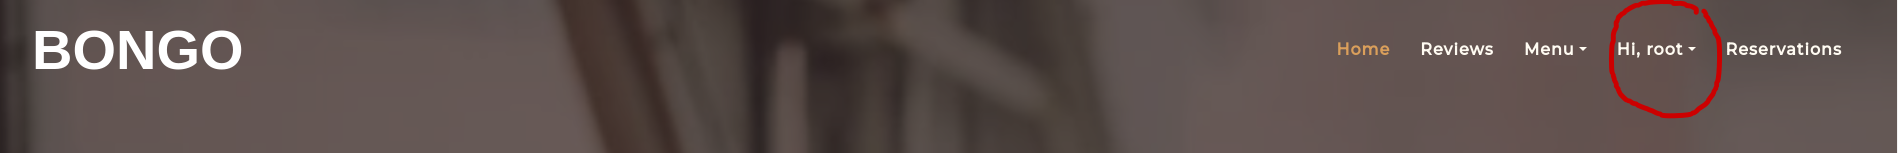
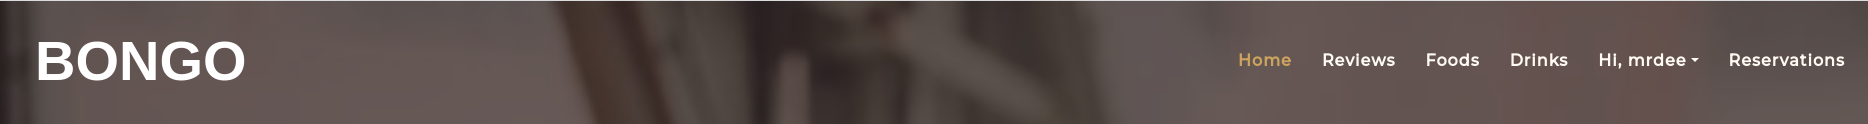
Console error of javascript corrected.

diff --git a/templates/_partials/nav.html b/templates/_partials/nav.html
@@ -17,26 +17,16 @@
                   <a href="{{ url }}" class="nav-item nav-link {% if request.path == url %}active{% endif %}">Home</a>
                   {% url 'restaurant:reviews' as url %}
                   <a href="{{ url }}" class="nav-item nav-link {% if request.path == url %}active{% endif %}">Reviews</a>
-                  <div class="nav-item dropdown">
-                    {% url 'restaurant:foods' as url %}
-                    <a class="nav-link dropdown-toggle {% if request.path == url %}active{% endif %}" href="#" id="dropdown01" data-bs-toggle="dropdown" aria-expanded="true">Menu</a>
-                    
-                      <ul class="dropdown-menu text-capitalize" aria-labelledby="dropdown01" id="foodmenu">
-                        
-                        <li>
-                          <a class="dropdown-item" href="{{ url }}">Foods</a>
-                        </li>
-                        {% url 'restaurant:drinks' as url %}
-                        <li><a class="dropdown-item" href="{{ url }}">Drinks</a></li>
-                        
-                      </ul>
-                  </div>
+                  {% url 'restaurant:foods' as url %}
+                  <a href="{{ url }}" class="nav-item nav-link {% if request.path == url %}active{% endif %}">Foods</a>
+                  {% url 'restaurant:drinks' as url %}
+                  <a href="{{ url }}" class="nav-item nav-link {% if request.path == url %}active{% endif %}">Drinks</a>
                  
                   {% if user.id is not None %}
                  
                   <div class="nav-item dropdown" id="dropdown">
                     {% url 'account:profile' as url %}
-                    <a class="nav-link dropdown-toggle {% if request.path == url %}active{% endif %}" href="#" id="dropdown02" data-bs-toggle="dropdown" aria-expanded="false">Hi, {{ request.user }}</a>
+                    <a class="nav-link dropdown-toggle {% if request.path == url %}active{% endif %}" href="#" id="dropdown02" data-bs-toggle="dropdown" aria-expanded="true">Hi, {{ request.user }}</a>
                       <ul class="dropdown-menu text-capitalize" aria-labelledby="dropdown02" id="accountmenu">
                         <li class="nav-item">
                           <span style="margin-left: 15px;">

diff --git a/templates/_partials/dropdown.html b/templates/_partials/dropdown.html
@@ -1,23 +1,15 @@
 <script>
-    const dropdownBtn = document.getElementById("dropdown01");
-    const dropdownBtn2 = document.getElementById("dropdown02");
-    const dropdownMenu = document.getElementById("foodmenu");
-    const dropdownMenu2 = document.getElementById("accountmenu");
-    const toggleDropdown = function () {
-  dropdownMenu.classList.toggle("show");
+const dropdownBtn2 = document.getElementById("dropdown02");
+const dropdownMenu2 = document.getElementById("accountmenu");
 
-};
 const toggleDropdown2 = function () {
   dropdownMenu2.classList.toggle("show");
 
 };
-dropdownBtn.addEventListener("click", function (e) {
-  e.stopPropagation();
-  toggleDropdown();
-});
-
+if(dropdownBtn2 != undefined){
 dropdownBtn2.addEventListener("click", function (e) {
   e.stopPropagation();
   toggleDropdown2();
 });
+}
 </script>

diff --git a/rms/settings.py b/rms/settings.py
@@ -28,7 +28,7 @@ BASE_DIR = Path(__file__).resolve().parent.parent
 SECRET_KEY = os.environ.get('SECRET_KEY')
 
 # SECURITY WARNING: don't run with debug turned on in production!
-DEBUG = False
+DEBUG = True
 
 ALLOWED_HOSTS = ['bongo-man.herokuapp.com', 'localhost']
 

diff --git a/README.md b/README.md
@@ -74,6 +74,10 @@ The Bongo Restaurant is a fictional business where users can create an account, 
 ## User Stories
 This is the link to the project board [Bongo-Man](https://github.com/users/Dee68/projects/9)
 
+### Epics
+
+
+
 ### Users
 
 1.  As a Site User I can create an account so that I can have the benefits of the system user(Must have)
@@ -274,7 +278,7 @@ The Review Model contains the following:
 
 <details><summary>See feature images</summary>
 
-![Home page](docs/features/home.png)
+![Home page](docs/features/home1.png)
 </details>
 
 ### Brand & Navigation
@@ -285,7 +289,7 @@ The Review Model contains the following:
 
 <details><summary>See feature images</summary>
 
-![Footer](docs/features/brand_navigation.png)
+![Footer](docs/features/home.png)
 ![Footer](docs/features/hamburger_navigation.png)
 ![Footer](docs/features/logged_in.png)
 </details>
@@ -347,6 +351,18 @@ The Review Model contains the following:
 ![Logout](docs/features/logout_click.png)
 ![Logout](docs/features/confirm_action.png)
 </details>
+
+### Password Reset
+- Allows a registered user to reset password if forgotten.
+
+<details>
+<summary>See feature images</summary>
+
+![Password reset](docs/features/passw_reset.png)
+![Password confirm](docs/features/passw_sent.png)
+![password Done](docs/features/passw_reset_confirm.png)
+</details>
+
 
 ### Book
 - Allows the user to reserve a table using the reservation form
